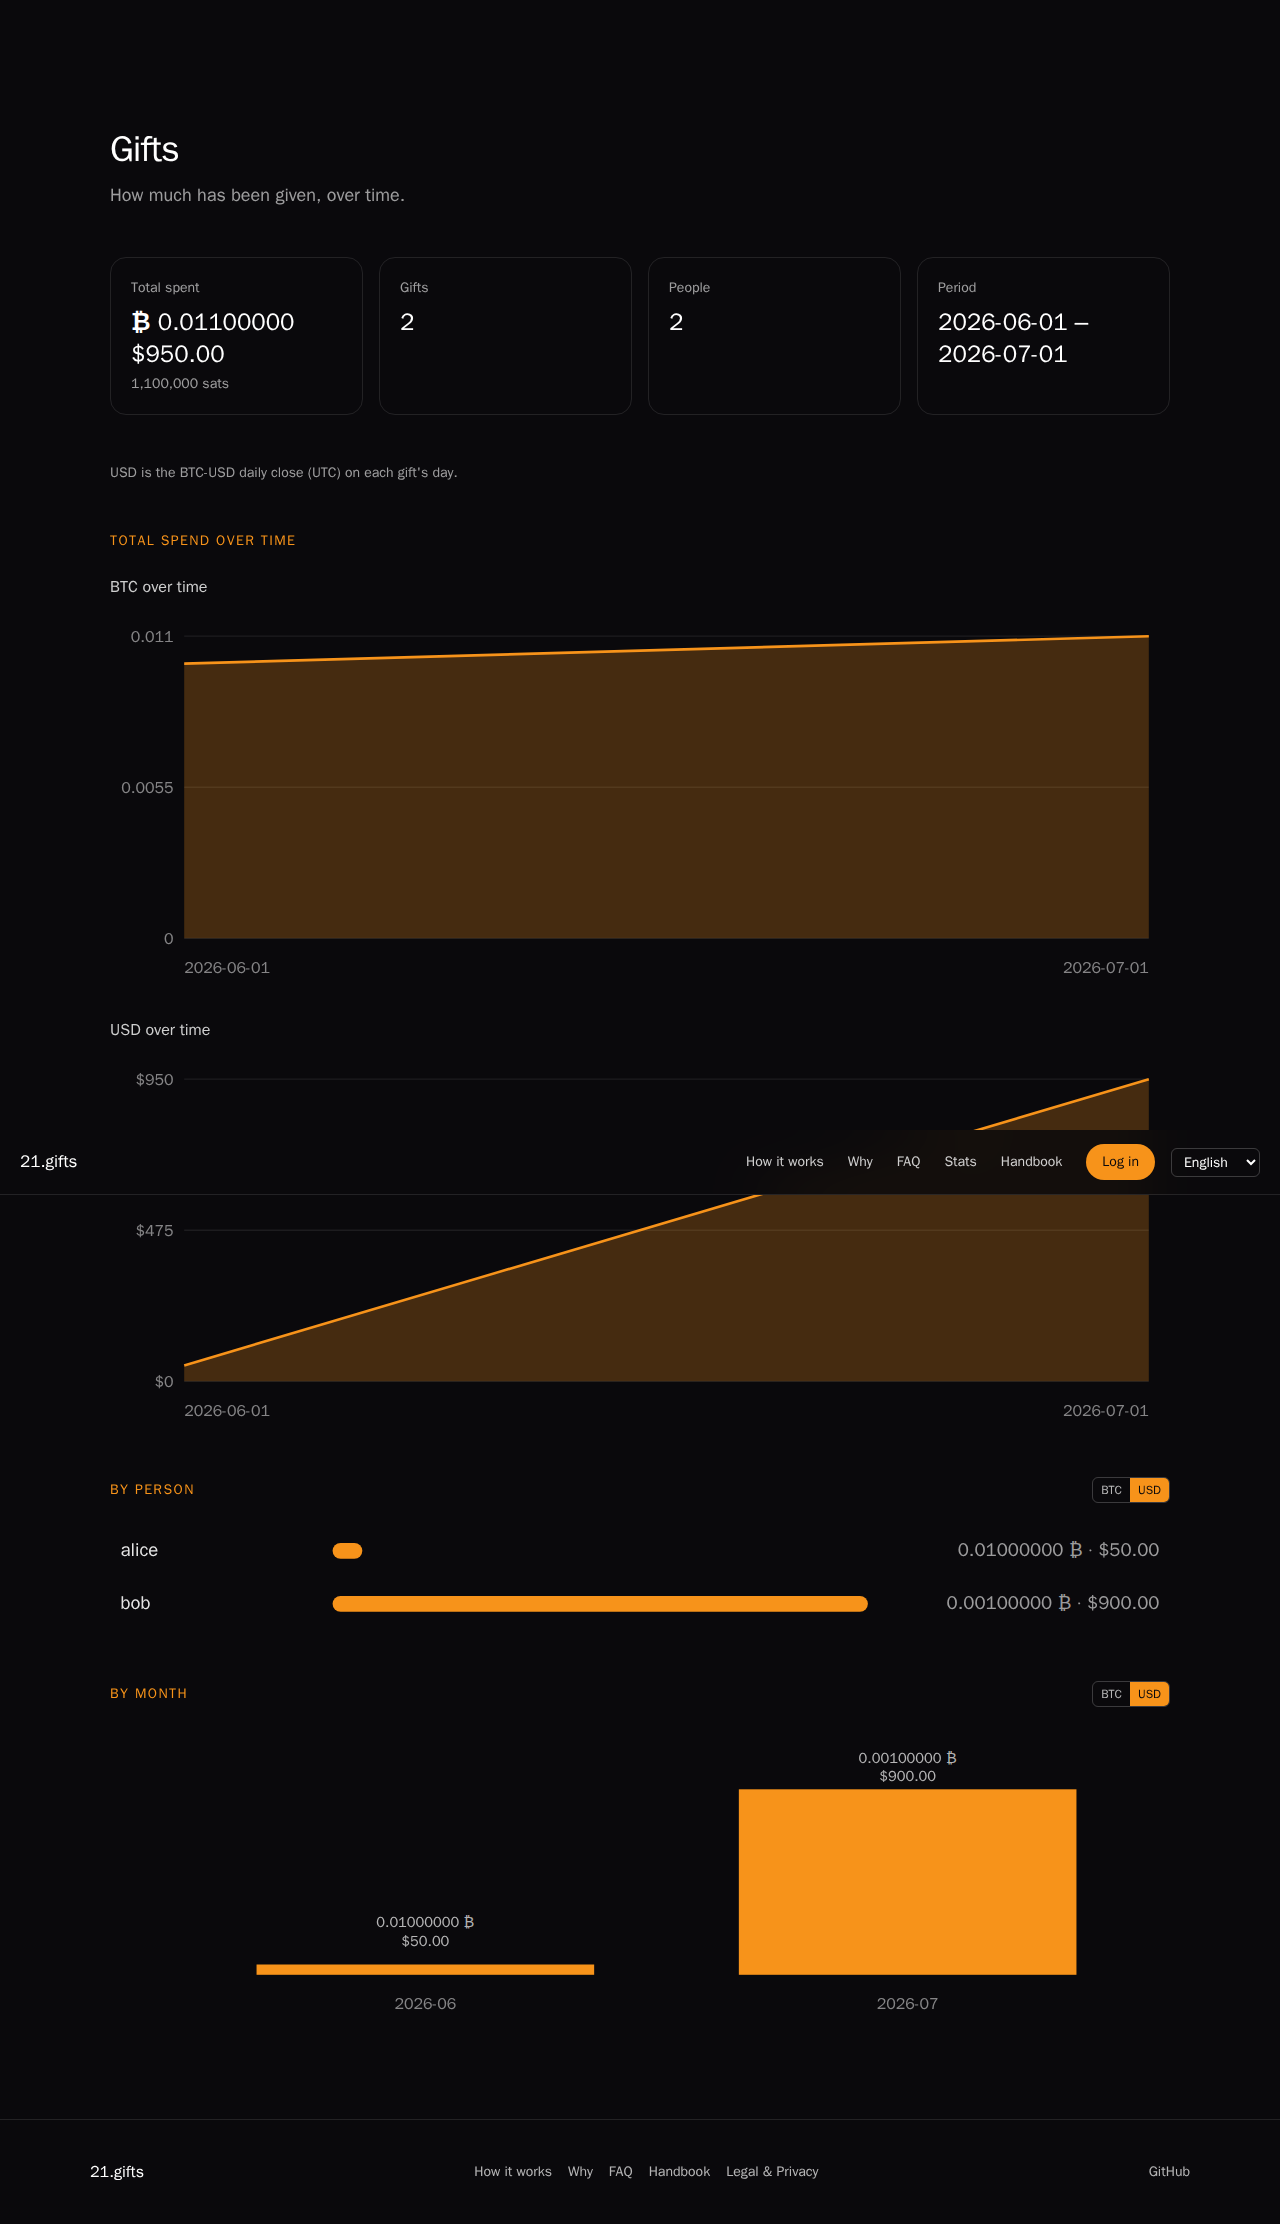
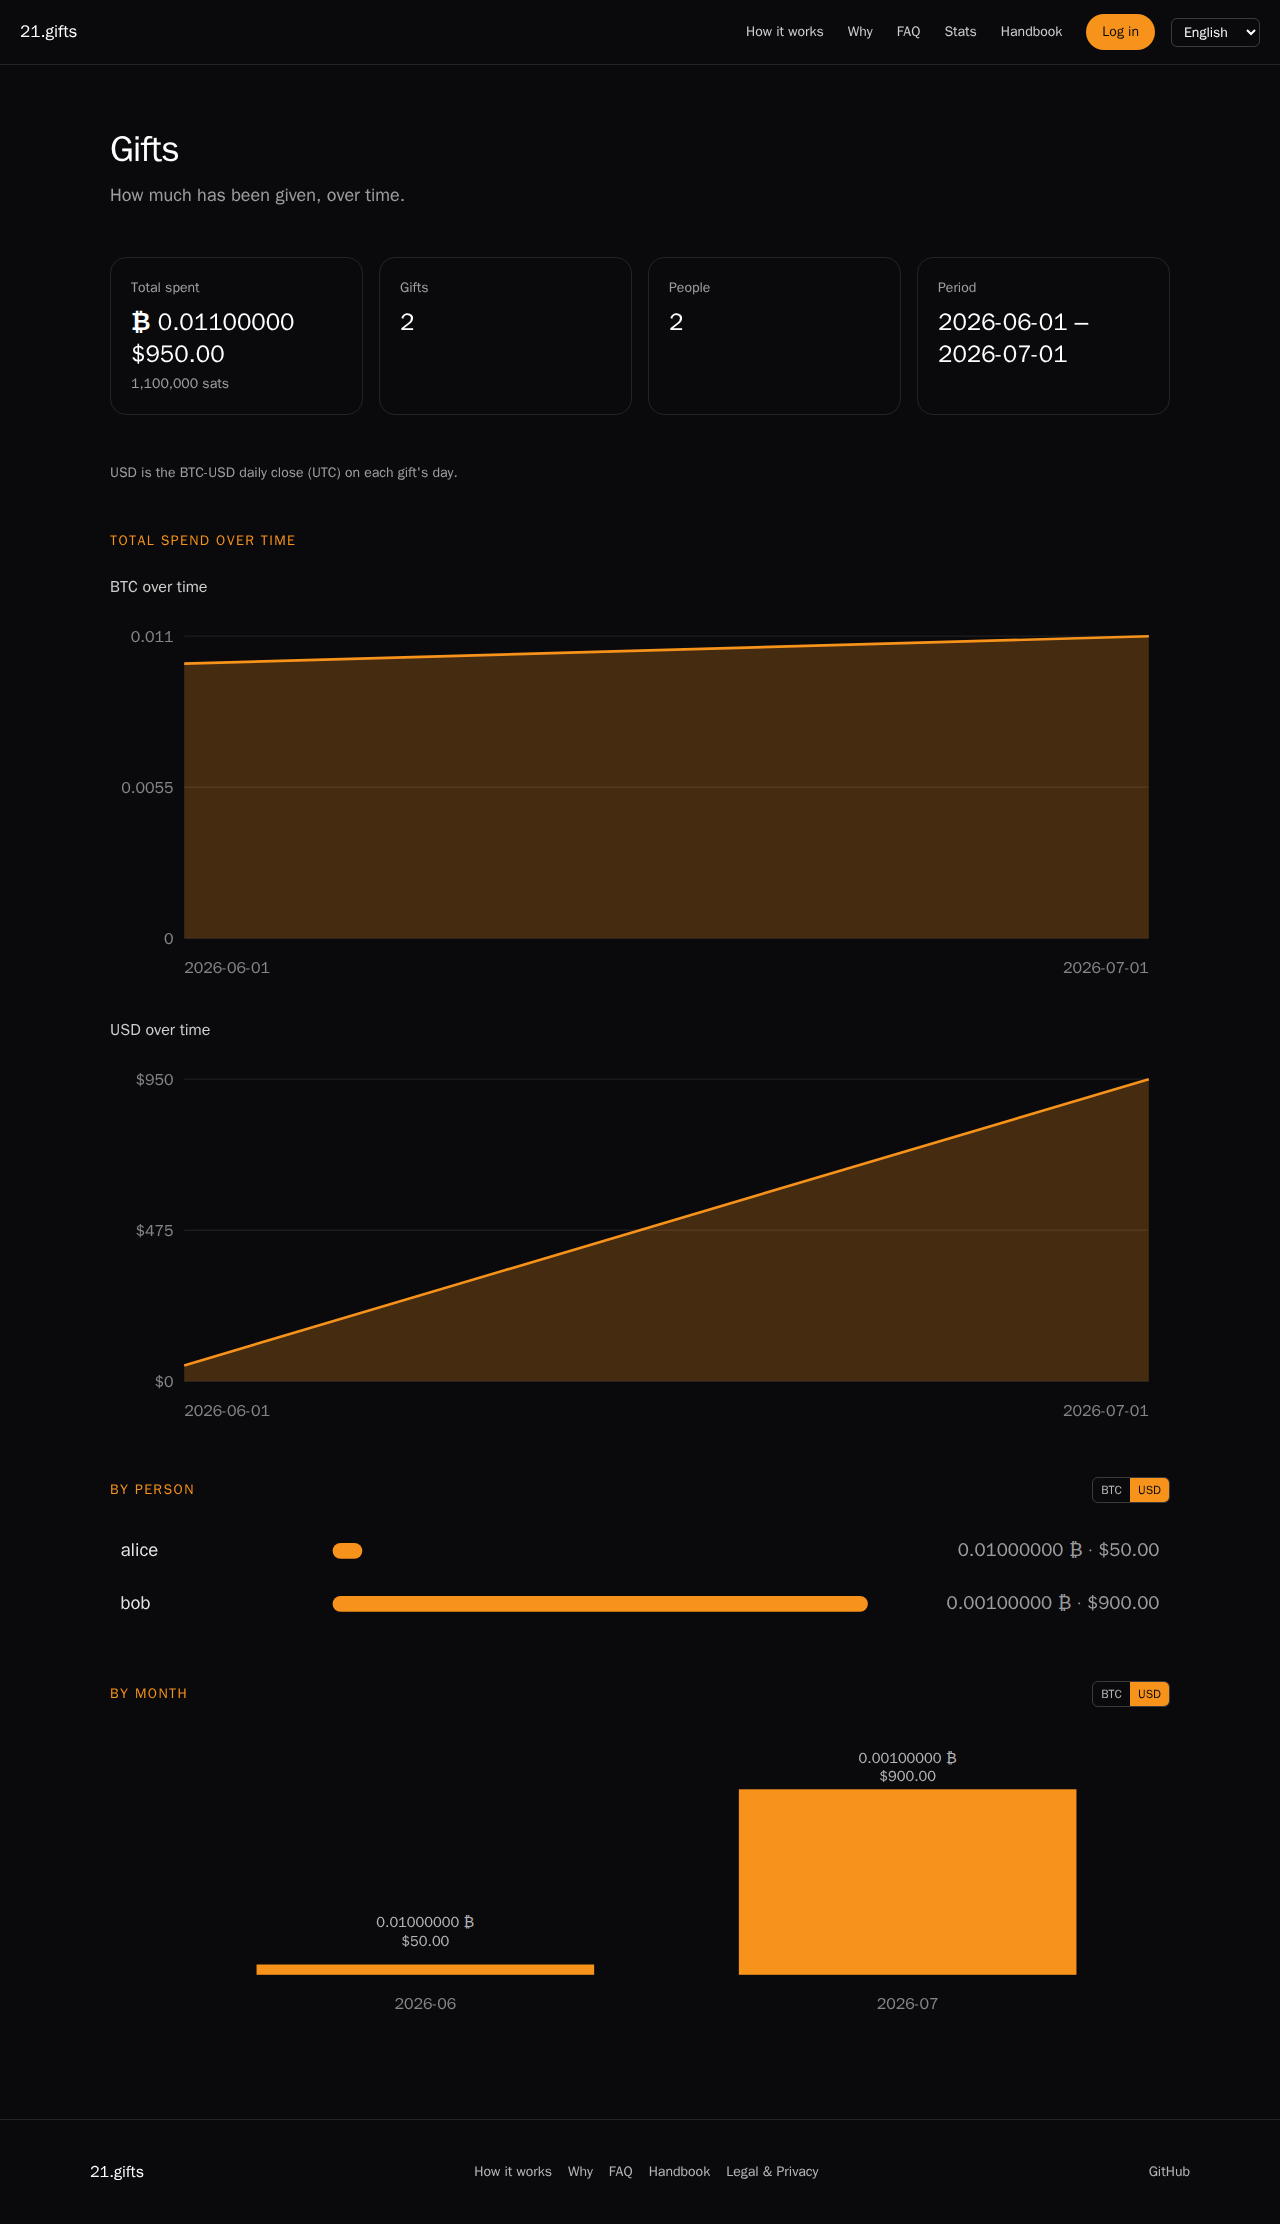
Reset full-page handbook shots to the top and refresh the StatsDashboard clip.

Changed region(s): [[0.5938, 0.4964, 0.9062, 0.5585], [0.8438, 0.0, 0.9062, 0.031], [0.9375, 0.0, 0.9688, 0.031]]

diff --git a/e2e/handbook-capture.spec.ts b/e2e/handbook-capture.spec.ts
@@ -19,6 +19,11 @@ const E2E_ACCOUNT = {
 };
 
 async function writePng(page: Page, basename: string, fullPage = true): Promise<void> {
+  if (fullPage) {
+    await page.evaluate(() => {
+      window.scrollTo(0, 0);
+    });
+  }
   const buffer = await page.screenshot({ fullPage, animations: 'disabled', caret: 'hide' });
   const docsPath = path.join('docs', 'handbook', 'images', basename);
   const publicPath = path.join('public', 'handbook-images', basename);

diff --git a/docs/handbook/screens.md b/docs/handbook/screens.md
@@ -47,7 +47,7 @@ Loaded stats with the cumulative BTC and USD charts visible. Bar scale defaults 
 
 ### Variant: usd-scale
 
-Same totals, bar scale switched to USD on **By person** and **By month**.
+Inverted ranking fixture (June tall in BTC / short in USD, July the reverse). Bar scale switched to USD on **By person** and **By month**.
 
 ![21.gifts stats USD scale](images/stats-usd-scale.png)
 
